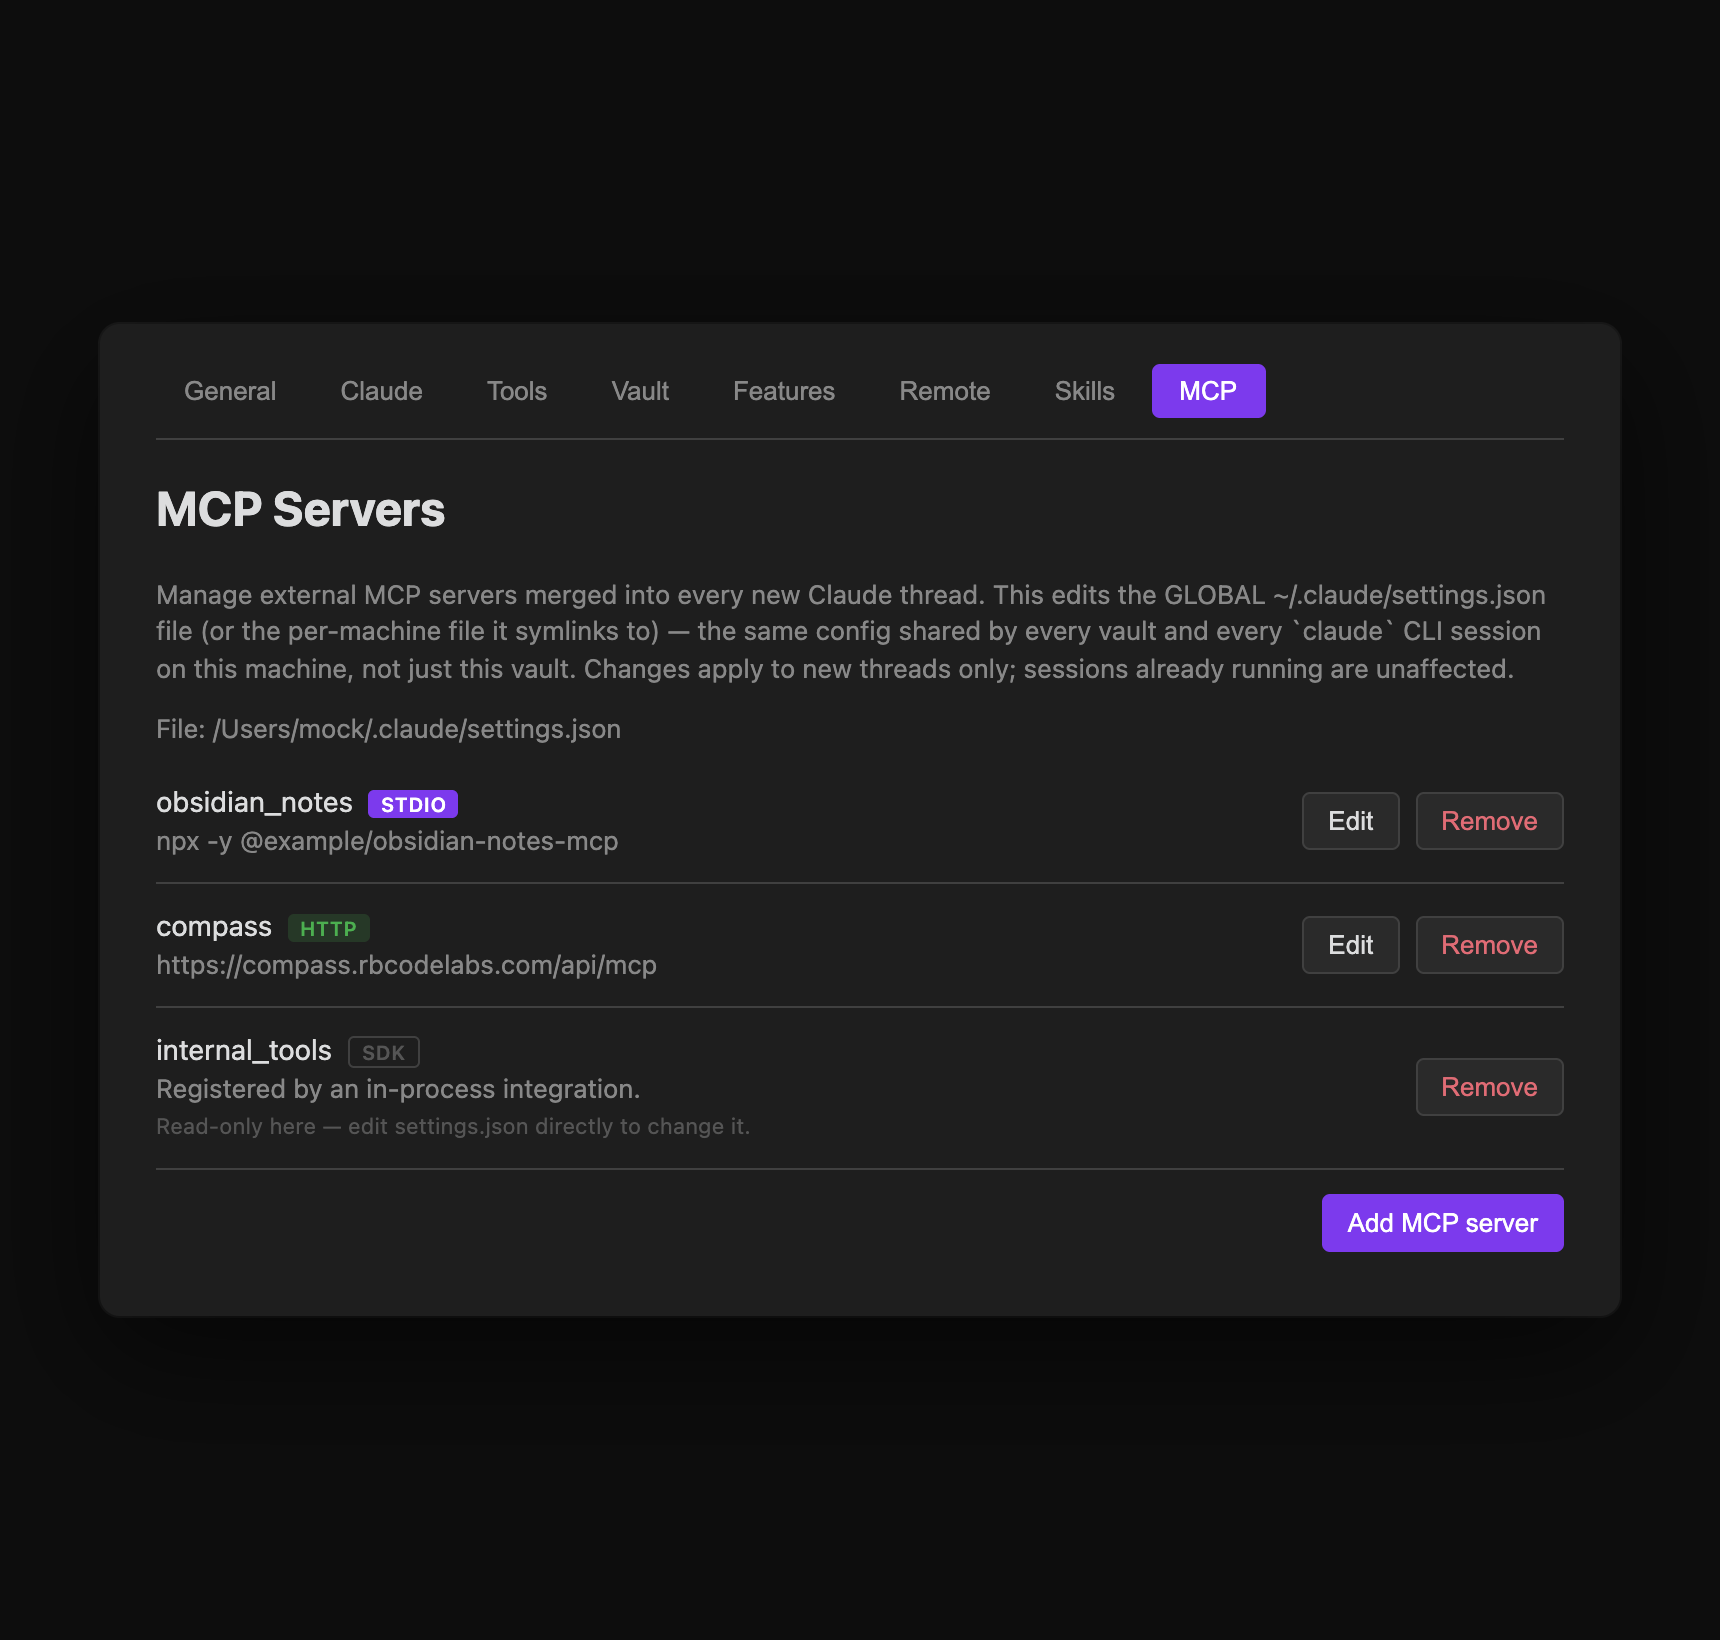
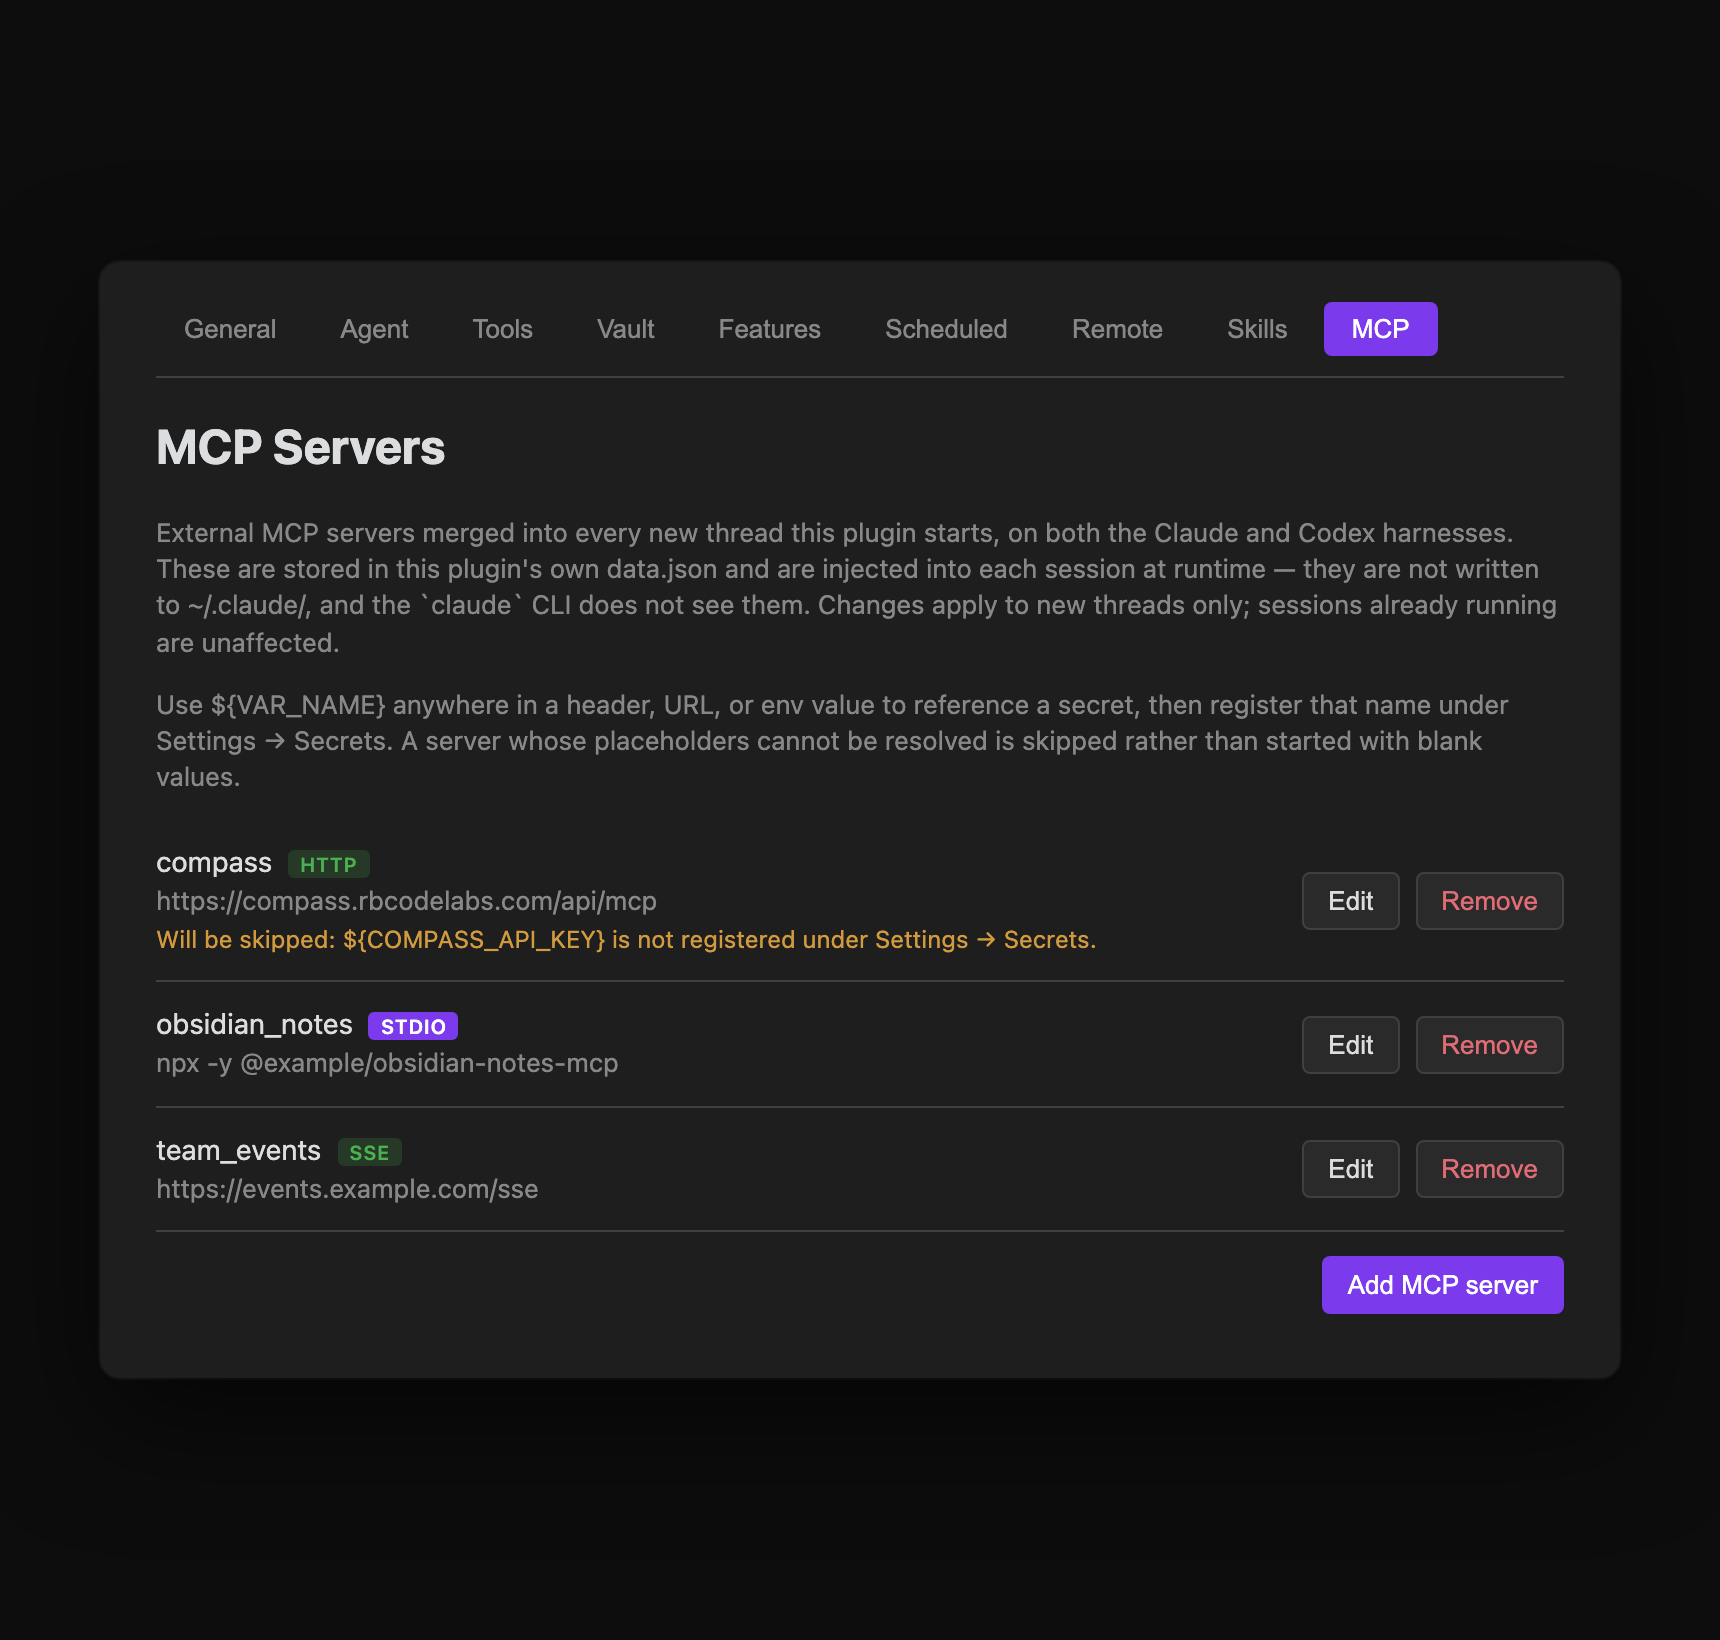
docs: reflect MCP server storage cutover to plugin data.json
External MCP servers now live in the plugin's own per-vault data.json,
not ~/.claude/settings.json — they're no longer shared with the claude
CLI or other vaults. Also documents the new skip-on-unresolved-secret
behavior (a server with an unmet ${VAR_NAME} placeholder is left out
of the session, with a warning, instead of starting with a blank
credential), and drops the now-removed read-only sdk-server and
malformed-config sections. Refreshes the two MCP settings screenshots
to match current UI copy.

diff --git a/src/content/docs/integrations/mcp-servers.md b/src/content/docs/integrations/mcp-servers.md
@@ -7,35 +7,35 @@ order: 3
 
 Every Claude Threads session ships with a built-in, host-neutral `claude_threads` MCP server (vault access, thread control, worktrees, and more) that needs no configuration. Codex receives the same canonical tool definitions through its dynamic-tool protocol. The former `obsidian` server and `obsidian_*` tool names remain callable as deprecated compatibility aliases until the next major release, but new prompts, permissions, and automation should use `claude_threads` and the canonical names in the [Agent Tools Reference](/docs/reference/agent-tools/).
 
-Beyond that built-in surface, you can wire in **external MCP servers** — Compass, Helio, a company-internal tools server, or anything else that speaks the [Model Context Protocol](https://modelcontextprotocol.io) — and every new thread picks them up automatically.
+Beyond that built-in surface, you can wire in **external MCP servers** — Compass, Helio, a company-internal tools server, or anything else that speaks the [Model Context Protocol](https://modelcontextprotocol.io) — and every new thread picks them up automatically, on both the Claude and Codex harnesses.
 
-Those external servers live in your **global Claude Code config** (`~/.claude/settings.json`). The **Settings → MCP** tab lets you list, add, edit, and remove them from inside the host app, so the common cases never require hand-editing JSON.
+Those external servers are stored in **this plugin's own `data.json`**, not in any Claude Code config file. The **Settings → MCP** tab lets you list, add, edit, and remove them from inside the host app, so the common cases never require hand-editing JSON.
 
-![Settings MCP tab: a list of configured MCP servers, each with a type badge (stdio, http, sdk), a one-line summary, and Edit and Remove buttons, plus an Add MCP server button](../../../assets/screenshots/screenshot-mcp-servers.png)
+![Settings MCP tab: a list of configured MCP servers, each with a type badge (stdio, http, or sse), a one-line summary, and Edit and Remove buttons, plus an Add MCP server button](../../../assets/screenshots/screenshot-mcp-servers.png)
 
 ## Opening the tab
 
 Open **Settings → Claude Threads** and select the **MCP** tab. On mobile, the settings screen is reduced to pairing and reload controls — MCP servers are managed from desktop only.
 
-## This edits your global config
+## This is per-vault plugin data, not a Claude Code config file
 
-**The MCP tab edits your global `~/.claude/settings.json`** (or the per-machine file it symlinks to) — not a per-vault or per-plugin config. That file is shared by:
+**The MCP tab edits this plugin's own `data.json`** for the current vault — not `~/.claude/settings.json`, and not any other Claude Code config. That means:
 
-- Every vault running Claude Threads on this machine, and
-- The `claude` CLI itself.
+- Servers you add here are **scoped to this vault**; they don't show up in other vaults running Claude Threads, and they aren't shared with the `claude` CLI run outside the plugin.
+- The `claude` CLI's own `~/.claude/settings.json` is never read or written by this tab — a server added there doesn't appear here, and vice versa.
+- Each configured server is injected into a session's tool set **at runtime**, when a thread starts, on whichever harness (Claude or Codex) that thread uses.
 
-So a server you add here shows up everywhere, and a server you (or a teammate's setup script) added via the CLI shows up here too. The tab always displays the resolved path to the file it is editing, so you can confirm exactly what's on disk.
-
-Changes take effect for **new threads only** — sessions already running keep whatever MCP servers they started with. There's no plugin reload required; the per-thread merge logic re-reads the file each time a thread starts.
+Changes take effect for **new threads only** — sessions already running keep whatever MCP servers they started with.
 
 ## The server list
 
 Each configured server is shown as a row with:
 
-- Its **name** (the key under `mcpServers` in the config).
-- A **type badge** — `stdio`, `http`, `sse`, or `sdk`.
+- Its **name** (the key under `mcpServers` in the stored config).
+- A **type badge** — `stdio`, `http`, or `sse`.
 - A **one-line summary** — the command line for `stdio` servers, the URL for `http`/`sse` servers.
 - **Edit** and **Remove** actions.
+- A **warning line**, if the server references an environment variable or secret that isn't currently resolvable — see [Placeholders and secrets](#placeholders-and-secrets) below.
 
 If no servers are configured yet, the list shows an empty state instead of rows.
 
@@ -54,15 +54,14 @@ Names may contain only letters, numbers, hyphens, and underscores, and must be u
 
 ### Placeholders and secrets
 
-Environment-variable values and HTTP header values support `${VAR_NAME}` placeholders. These are stored **verbatim** — the tab never resolves or reveals a secret — and are expanded only when a live thread starts, using the same resolution as [Extra environment variables](/docs/reference/settings/#environment): process environment variables merged with keychain-stored secrets. This keeps real tokens out of `settings.json` while still letting each thread authenticate.
+Environment-variable values and HTTP header values support `${VAR_NAME}` placeholders. These are stored **verbatim** in `data.json` — the tab never resolves or reveals a secret — and are expanded only when a live thread starts, using the same resolution as [Extra environment variables](/docs/reference/settings/#environment): process environment variables merged with keychain-stored secrets. This keeps real tokens out of `data.json` while still letting each thread authenticate.
 
-## Read-only `sdk` servers
+**If a placeholder can't be resolved — the variable is unset and no matching secret is registered — the server is skipped entirely for that session, rather than starting with a blank credential.** You'll see this in two places:
 
-Servers with `type: "sdk"` are registered by an in-process integration rather than a spawned command or a remote URL. They can't be reconstructed from JSON alone, so the tab shows them **read-only** — you can see them in the list, but editing one means opening `~/.claude/settings.json` by hand.
+- A row in the **Settings → MCP** list shows *"Will be skipped: `${VAR_NAME}` is not registered under Settings → Secrets."*
+- The first time a thread hits this during a session, a one-time notice banner reports it (deduplicated per warning message, so it won't repeat every turn).
 
-## Safety with a malformed config
-
-If `~/.claude/settings.json` contains invalid JSON, the tab shows the parse error and **hides the add/edit controls** rather than risk a write that clobbers whatever is actually on disk. Fix the JSON by hand, reopen the tab, and the controls return. Saves also re-read the file at write time, so a change you made in another editor won't be silently overwritten by a stale in-memory copy.
+Earlier versions of the plugin expanded an unresolved placeholder to an empty string and injected it anyway — which meant a server could silently authenticate with a blank token and fail in confusing ways. Register the missing variable or secret under **Settings → Claude → Extra environment variables / Secret environment variables** to clear the warning and have the server load normally.
 
 ## Related
 

diff --git a/src/content/docs/permissions/permission-modes-and-plan-mode.md b/src/content/docs/permissions/permission-modes-and-plan-mode.md
@@ -22,7 +22,7 @@ The default behavior can be changed globally in **Settings → Tools → Permiss
 | `dontAsk` | Suppress all interactive permission dialogs; Claude proceeds without confirmation. Intended for scheduled/background sessions that run unattended |
 | `auto` | Claude autonomously decides when to prompt vs. proceed based on action risk |
 
-> **Note for scheduled sessions.** Threads created by the built-in scheduler automatically use `dontAsk` so [cron jobs](/docs/automation/scheduled-tasks/) never stall waiting for a permission dialog that nobody is watching. They also inherit any external MCP servers defined in `~/.claude/settings.json` (Compass, Helio, or any other user-configured HTTP/SSE/stdio server) alongside the plugin's built-in tools, so scheduled agents have the same tool surface as an interactive CLI session — `${VAR_NAME}` placeholders in that config are resolved from environment variables and keychain-stored secrets.
+> **Note for scheduled sessions.** Threads created by the built-in scheduler automatically use `dontAsk` so [cron jobs](/docs/automation/scheduled-tasks/) never stall waiting for a permission dialog that nobody is watching. They also inherit any external MCP servers configured under [Settings → MCP](/docs/integrations/mcp-servers/) (Compass, Helio, or any other user-configured HTTP/SSE/stdio server) alongside the plugin's built-in tools, so scheduled agents have the same tool surface as an interactive session — `${VAR_NAME}` placeholders in that config are resolved from environment variables and keychain-stored secrets, and a server with an unresolved placeholder is skipped for that run rather than started with a blank credential.
 
 ## Plan Mode
 

diff --git a/src/content/docs/reference/settings.md b/src/content/docs/reference/settings.md
@@ -127,7 +127,7 @@ Register local skill collections — GitHub repos or local folders — to browse
 
 ## MCP
 
-Add, edit, and remove the external MCP servers (stdio, HTTP, or SSE) that get merged into every new thread — no hand-editing JSON required for the common case. This tab edits your **global** `~/.claude/settings.json`, shared by every vault and by the `claude` CLI itself. See [Managing MCP Servers](/docs/integrations/mcp-servers/) for the full walkthrough, including the add/edit form, `${VAR_NAME}` placeholders, read-only `sdk` entries, and how the tab guards a malformed config.
+Add, edit, and remove the external MCP servers (stdio, HTTP, or SSE) that get merged into every new thread on both the Claude and Codex harnesses — no hand-editing JSON required for the common case. Servers are stored in **this plugin's own `data.json`**, scoped to this vault — not in `~/.claude/settings.json` and not shared with the `claude` CLI. See [Managing MCP Servers](/docs/integrations/mcp-servers/) for the full walkthrough, including the add/edit form, `${VAR_NAME}` placeholders, and what happens when a placeholder can't be resolved (the server is skipped, with a warning, rather than starting with a blank credential).
 
 ## Mobile settings
 
